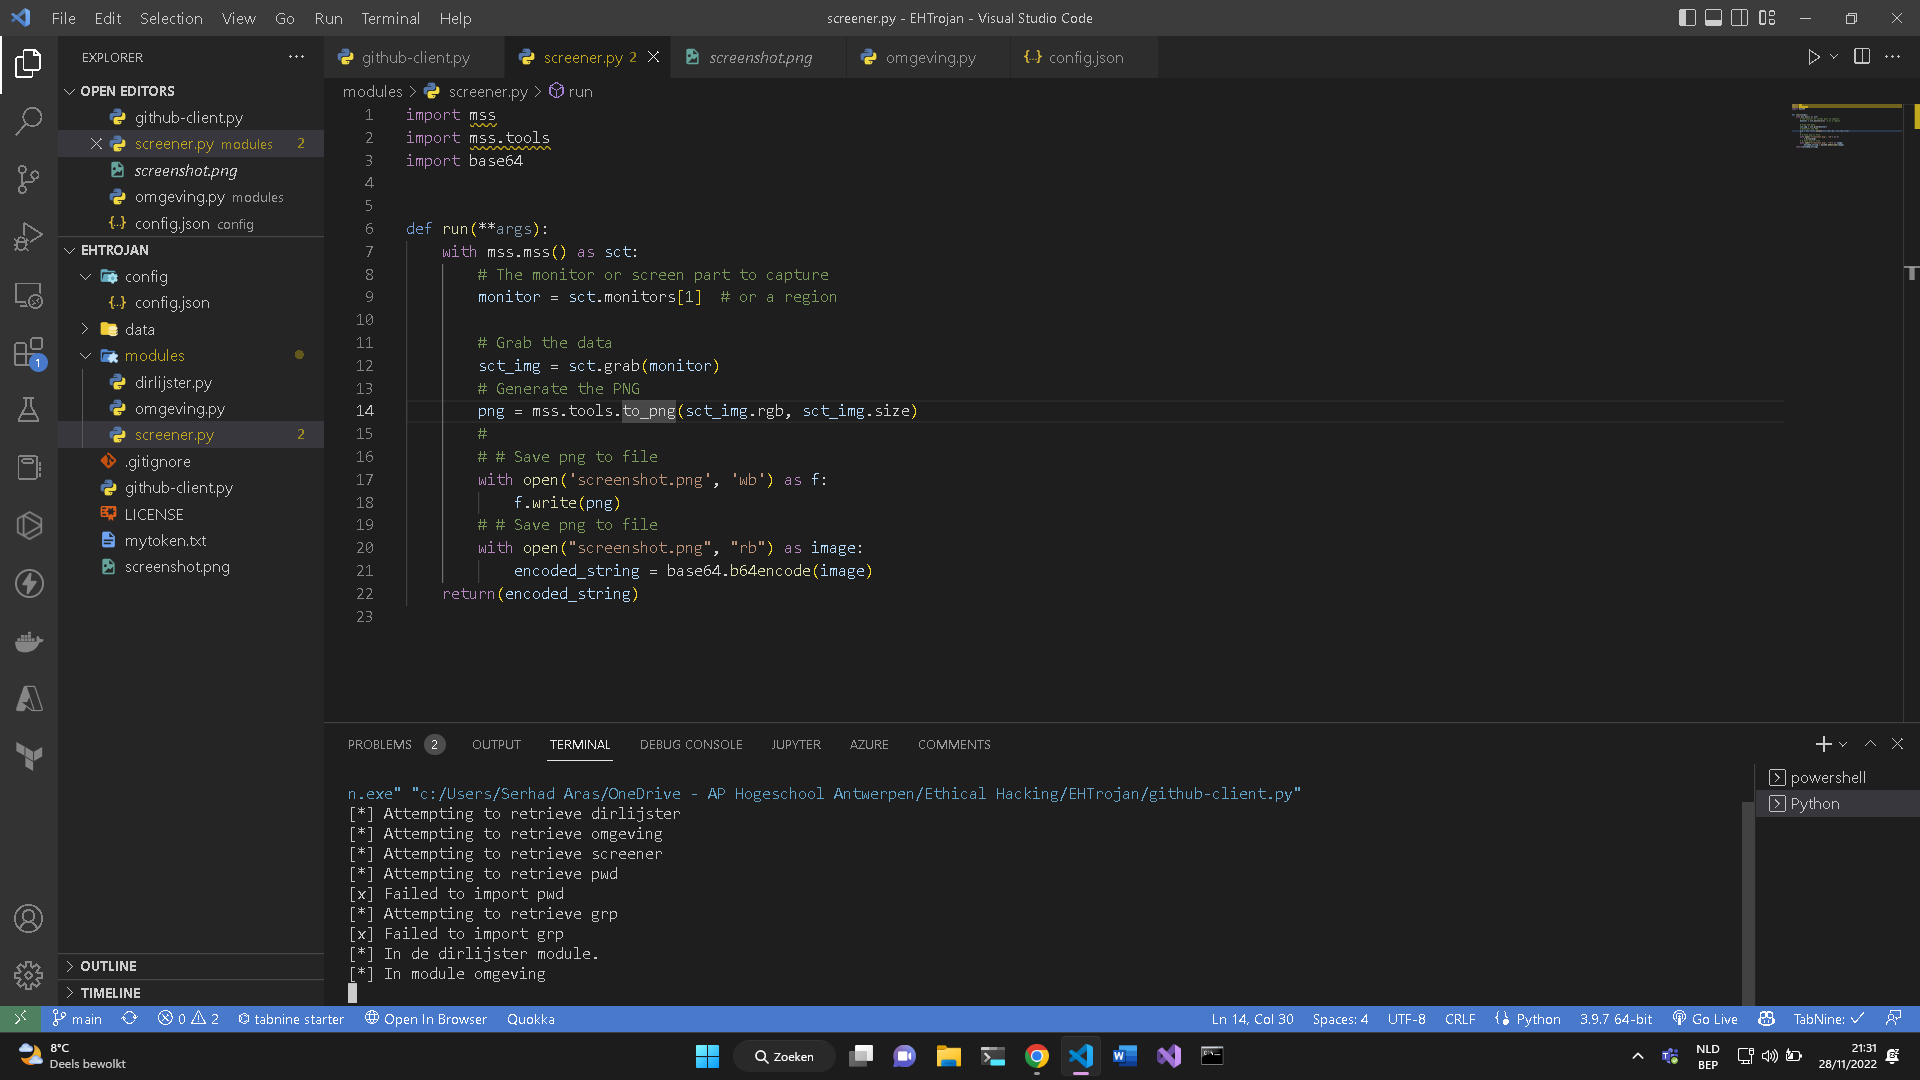
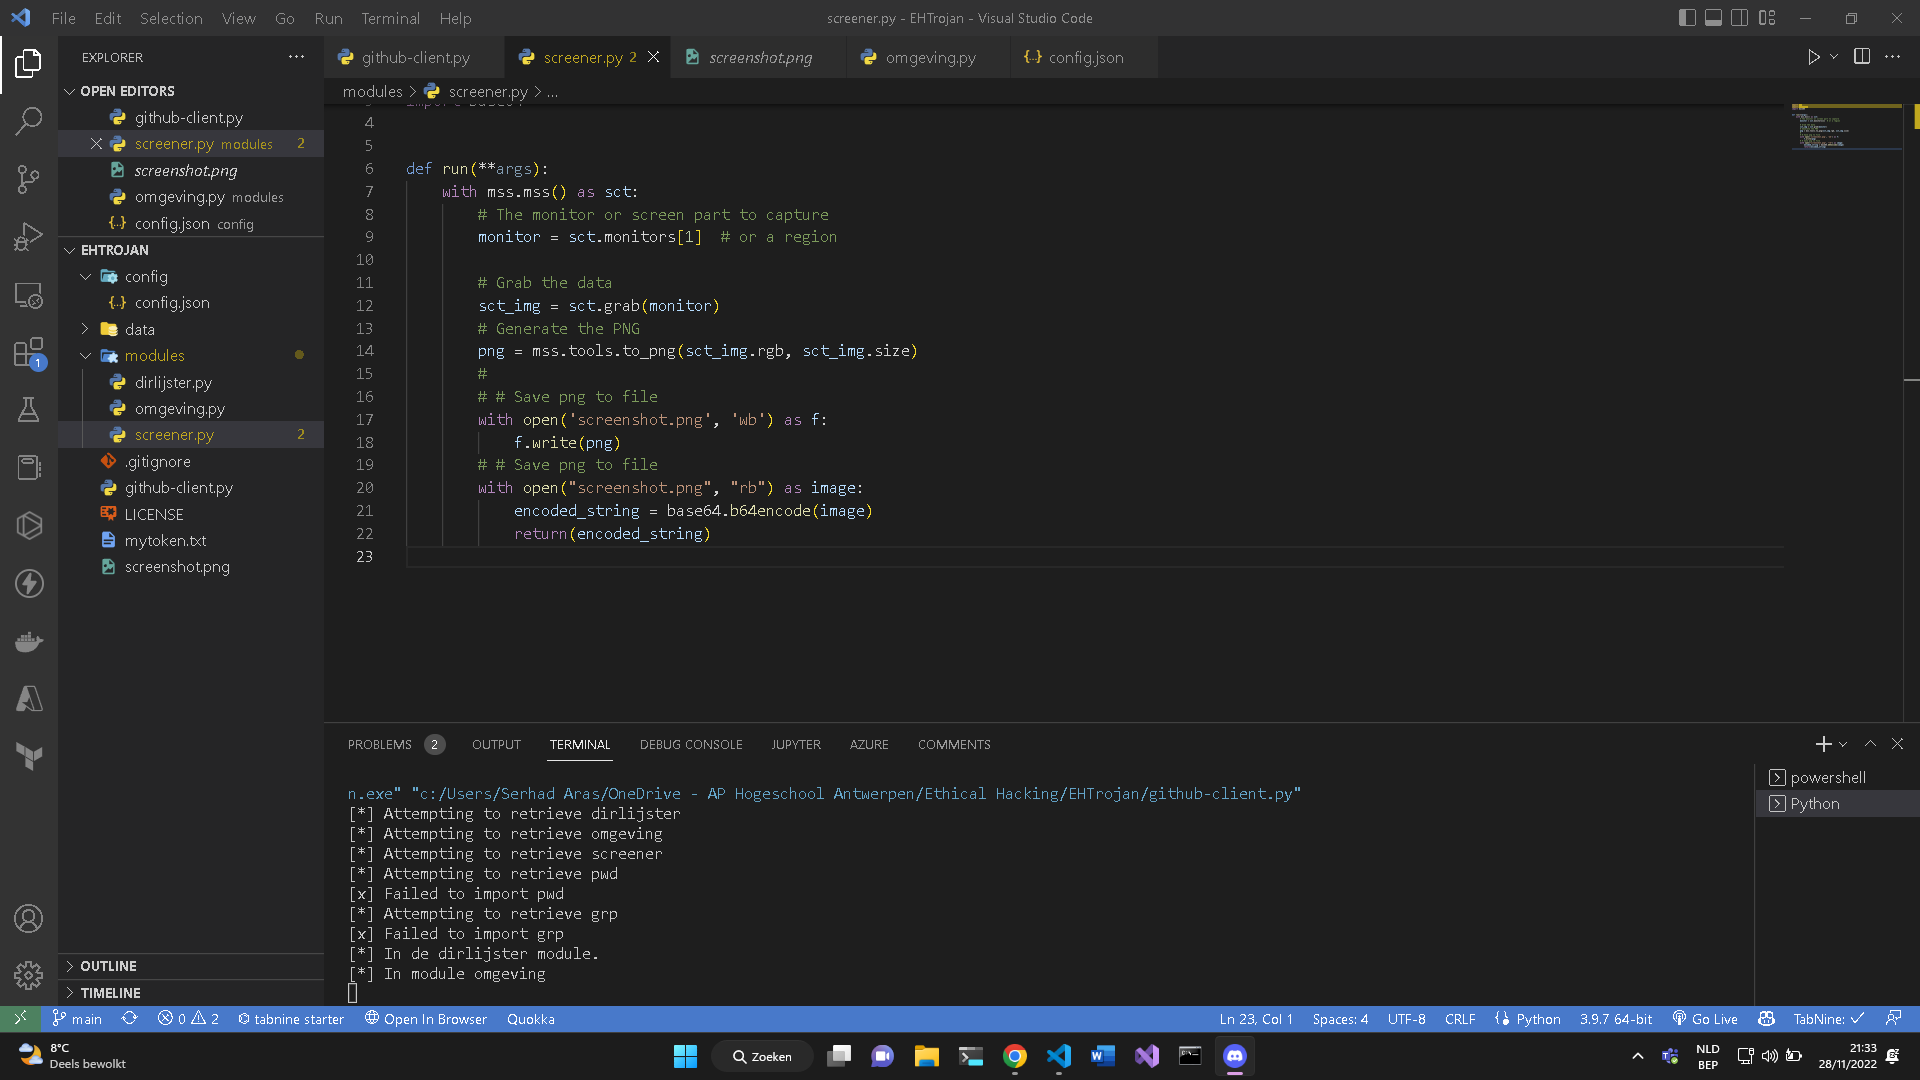
update

diff --git a/modules/screener.py b/modules/screener.py
@@ -18,5 +18,5 @@ def run(**args):
             f.write(png)
         # # Save png to file
         with open("screenshot.png", "rb") as image:
-            encoded_string = base64.b64encode(image)
+            encoded_string = base64.b64encode(image.read())
             return(encoded_string)
